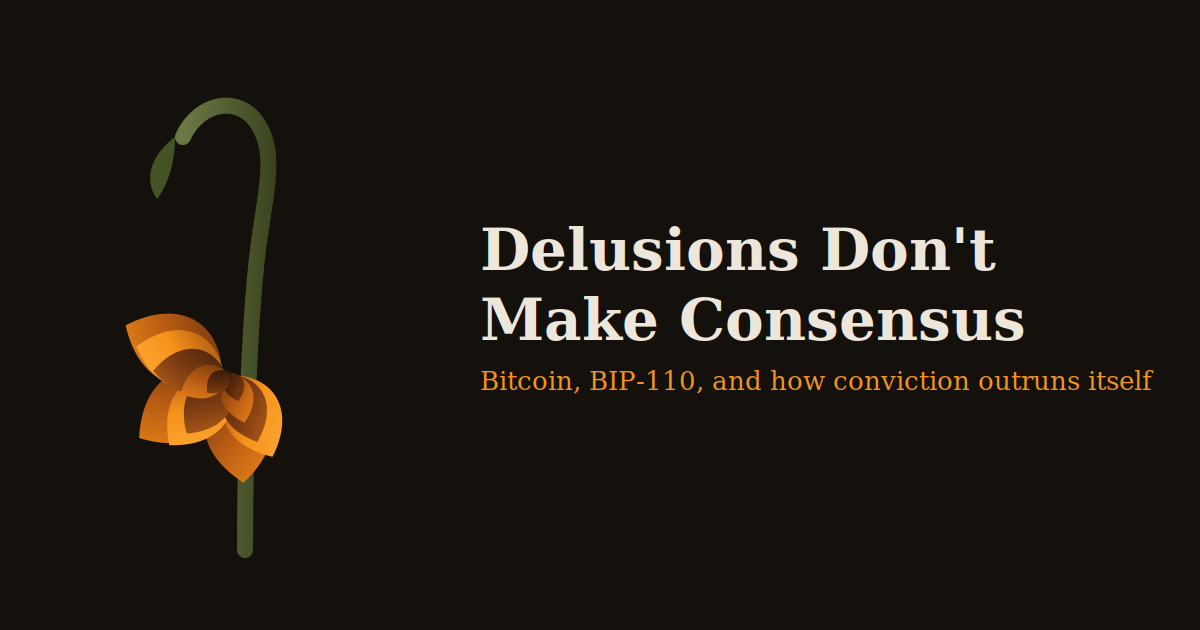
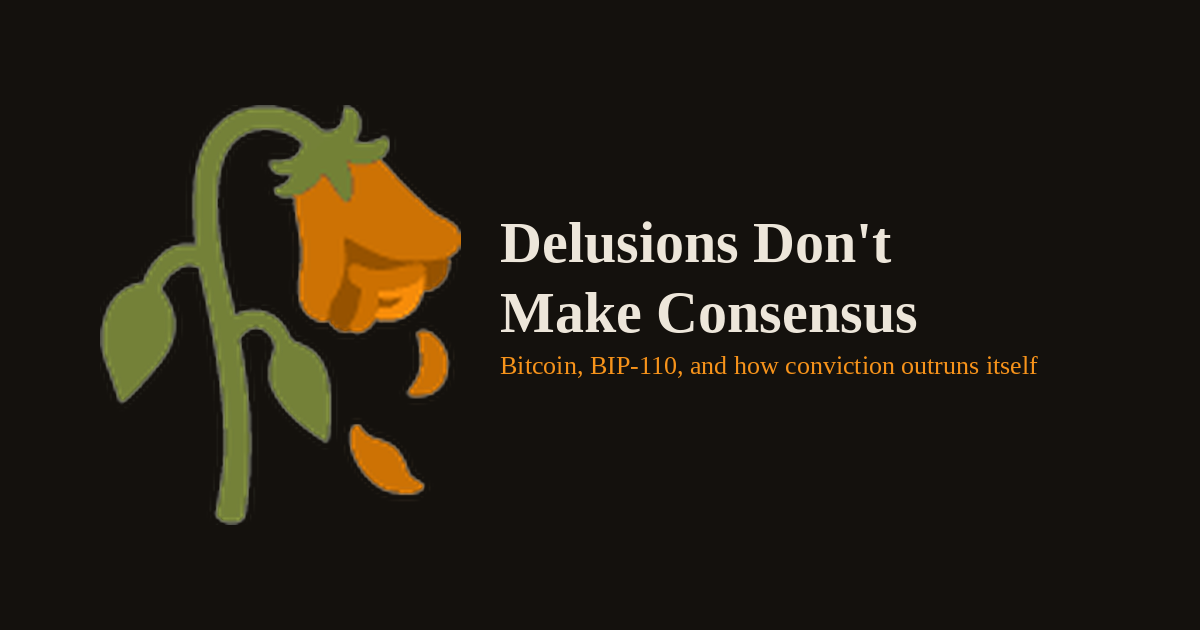
Add files via upload

Changed region(s): [[0.0617, 0.1508, 0.9558, 0.9048]]

diff --git a/404.html b/404.html
@@ -5,7 +5,6 @@
 <meta name="viewport" content="width=device-width, initial-scale=1.0">
 <title>404 — Page Not Found | Delusions Don't Make Consensus</title>
 <meta name="robots" content="noindex, follow">
-<link rel="icon" type="image/svg+xml" href="favicon.svg">
 <link rel="icon" type="image/png" sizes="32x32" href="favicon-32.png">
 <link href="https://fonts.googleapis.com/css2?family=Fraunces:wght@600;700&family=Source+Serif+4&family=IBM+Plex+Mono&display=swap" rel="stylesheet">
 <style>
@@ -24,7 +23,7 @@
 </head>
 <body>
   <div class="box">
-    <img src="rose-hero.svg" alt="Wilted rose, bitcoin-orange petals">
+    <img src="rose-hero.png" alt="The wilted flower emoji, recolored with petals in Bitcoin's signature orange" style="width:140px; height:auto;">
     <h1>404</h1>
     <p>This page wilted too. Whatever consensus it needed to exist, it didn't get.</p>
     <a href="/Delusions-Dont-Make-Consensus/">← Back to the article</a>

diff --git a/index.html b/index.html
@@ -41,7 +41,6 @@
 
 
 <!-- Favicons -->
-<link rel="icon" type="image/svg+xml" href="favicon.svg">
 <link rel="icon" type="image/png" sizes="32x32" href="favicon-32.png">
 <link rel="icon" type="image/png" sizes="16x16" href="favicon-16.png">
 <link rel="apple-touch-icon" sizes="180x180" href="apple-touch-icon.png">
@@ -419,7 +418,7 @@
 
 <div id="top" class="hero">
   <div class="hero-img-wrap">
-    <img src="rose-hero.svg" alt="A wilted rose illustration with petals colored in Bitcoin's signature orange, drooping on a dried stem" width="300" height="366">
+    <img src="rose-hero.png" alt="The wilted flower emoji, recolored with petals in Bitcoin's signature orange" width="315" height="366">
   </div>
   <p class="eyebrow">Bitcoin, governance, and how conviction gets ahead of itself</p>
   <h1 class="title">Delusions Don't<br>Make <em>Consensus</em></h1>
